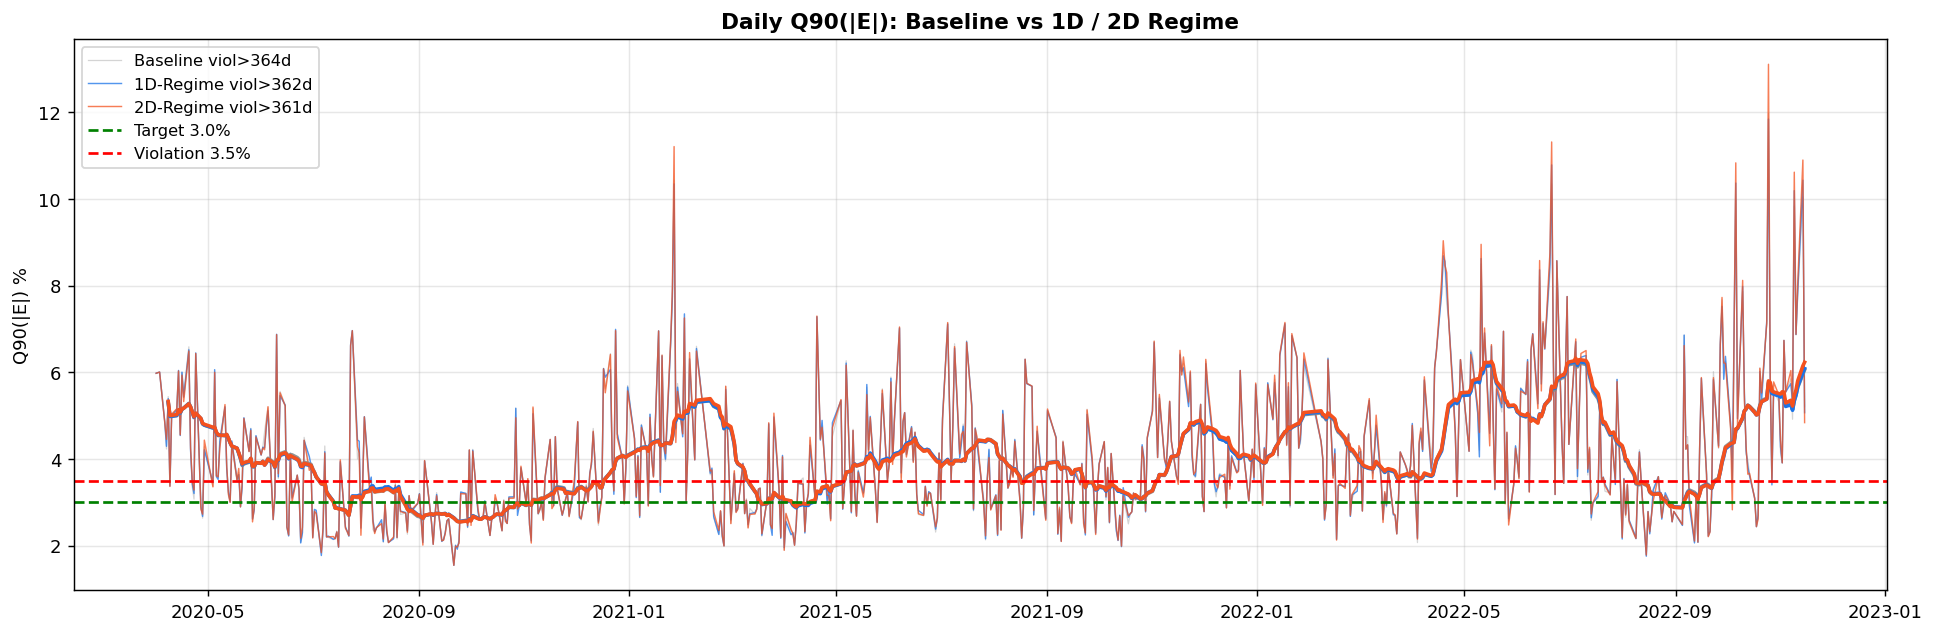
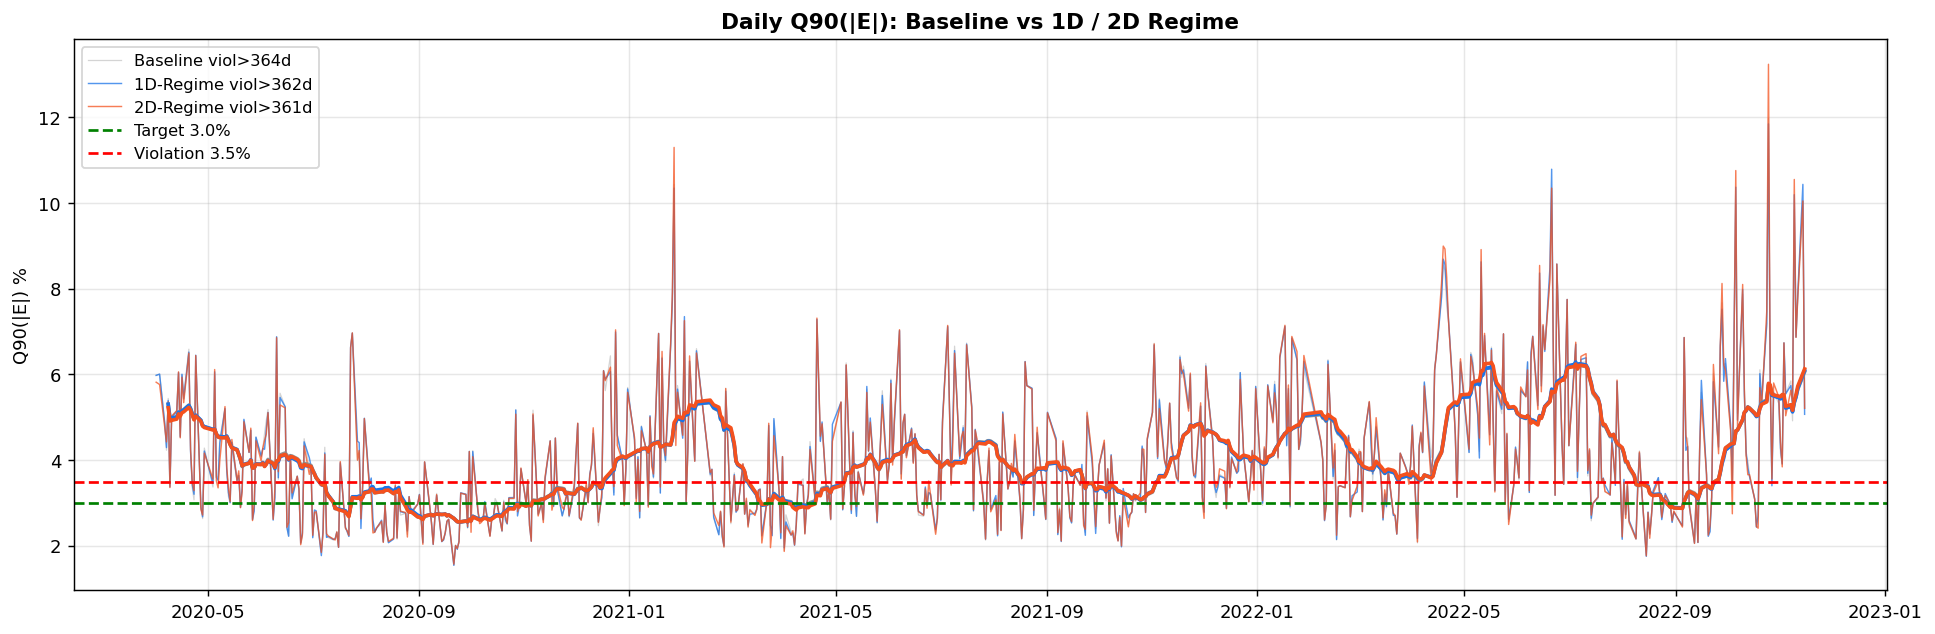
Improve VN regime calibration with tail-aware 2D grid

diff --git a/experiments/training/evaluate_regime_calibration.py b/experiments/training/evaluate_regime_calibration.py
@@ -34,7 +34,7 @@ OUTPUT   = ROOT / "data/processed/assets/data_info_vn/history/training_runs/repo
 GOLD     = ROOT / "gold/vn_transition_pressure_20260512/plots/regime_calibration_20260527"
 SEEDS    = (43, 52, 62, 71, 82)
 N_DECILES_1D = 10
-N_DECILES_2D = 5
+N_DECILES_2D = 6
 CONFORMAL_ALPHA = 0.10
 
 
@@ -115,7 +115,10 @@ def build_market_features(dates_train: pd.Series, dates_val: pd.Series,
     raw["Date"] = pd.to_datetime(raw["Date"])
     dm = raw.groupby("Date").agg(mkt_ret=("target_next_return", "mean"),
                                   mkt_std=("target_next_return", "std")).sort_index()
+    dm["mkt_q90"] = raw.groupby("Date")["target_next_return"].apply(lambda x: np.quantile(np.abs(x), .9))
     dm["rv_lag5"]         = dm["mkt_std"].shift(5).rolling(5, min_periods=2).mean()
+    dm["vol10"]           = dm["mkt_std"].shift(1).rolling(10, min_periods=3).mean()
+    dm["q905"]            = dm["mkt_q90"].shift(1).rolling(5, min_periods=3).mean()
     dm["mkt_abs_lag3"]    = dm["mkt_ret"].abs().shift(3).rolling(3, min_periods=2).mean()
     dm = dm.fillna(dm.median())
 
@@ -123,16 +126,19 @@ def build_market_features(dates_train: pd.Series, dates_val: pd.Series,
         df = pd.DataFrame({"Date": dates}).merge(dm.reset_index()[["Date", col]], on="Date", how="left")
         return df[col].fillna(dm[col].median()).to_numpy(dtype=np.float32)
 
-    rv_lag5_corr = float(
-        pd.DataFrame({"date": dates_val, "ae": np.abs(y_val - y_val * 0), "rv": lookup(dates_val, "rv_lag5")})
-        .groupby("date").agg(rv=("rv", "first"), ae=("ae", "mean"))["rv"]
-        .corr(pd.DataFrame({"date": dates_val, "ae": np.abs(y_val - y_val * 0), "rv": lookup(dates_val, "rv_lag5")})
-              .groupby("date").agg(ae=("ae", "mean"))["ae"])
-    )  # not used; kept for reference
-
     return {
-        "train": {"rv_lag5": lookup(dates_train, "rv_lag5"), "mkt_abs_lag3": lookup(dates_train, "mkt_abs_lag3")},
-        "val":   {"rv_lag5": lookup(dates_val,   "rv_lag5"), "mkt_abs_lag3": lookup(dates_val,   "mkt_abs_lag3")},
+        "train": {
+            "rv_lag5": lookup(dates_train, "rv_lag5"),
+            "mkt_abs_lag3": lookup(dates_train, "mkt_abs_lag3"),
+            "vol10": lookup(dates_train, "vol10"),
+            "q905": lookup(dates_train, "q905"),
+        },
+        "val": {
+            "rv_lag5": lookup(dates_val, "rv_lag5"),
+            "mkt_abs_lag3": lookup(dates_val, "mkt_abs_lag3"),
+            "vol10": lookup(dates_val, "vol10"),
+            "q905": lookup(dates_val, "q905"),
+        },
     }
 
 
@@ -179,11 +185,18 @@ def fit_2d_scales(y, p, rv, mk, n=N_DECILES_2D):
             mask = ((rv >= rv_lo) & (rv < rv_hi if i < n-1 else rv <= rv_hi) &
                     (mk >= mk_lo) & (mk < mk_hi if j < n-1 else mk <= mk_hi))
             ys, ps = y[mask], p[mask]
-            if mask.sum() < 30:
+            if mask.sum() < 300:
                 grid[(i,j)] = 1.0; continue
-            best_s, best_r = 1.0, rel_score(ys, ps)
-            for st in np.linspace(0.3, 1.5, 49):
-                r = rel_score(ys, ps * st)
+            def objective(pred: np.ndarray) -> float:
+                err = ys - pred
+                return (
+                    rel_score(ys, pred)
+                    - 0.8 * float(np.quantile(np.abs(err), 0.9))
+                    - 0.25 * float((np.abs(err) > 0.05).mean())
+                )
+            best_s, best_r = 1.0, objective(ps)
+            for st in np.linspace(0.4, 1.6, 49):
+                r = objective(ps * st)
                 if r > best_r:
                     best_r, best_s = r, st
             grid[(i,j)] = float(best_s)
@@ -365,7 +378,7 @@ def main():
     print("Building market features …")
     mf = build_market_features(dates_train, dates_val, y_train, y_val)
     rv_train = mf["train"]["rv_lag5"];  rv_val = mf["val"]["rv_lag5"]
-    mk_train = mf["train"]["mkt_abs_lag3"]; mk_val = mf["val"]["mkt_abs_lag3"]
+    mk_train = mf["train"]["q905"]; mk_val = mf["val"]["q905"]
 
     # rv-error correlation (informational)
     daily = pd.DataFrame({"date": dates_val, "ae": np.abs(y_val - mu_val), "rv": rv_val})
@@ -381,9 +394,10 @@ def main():
 
     # ── 2D regime ──────────────────────────────────────────────────────────
     print("Fitting 2D regime …")
-    rv_e2, mk_e2, grid_2d = fit_2d_scales(y_train, mu_train, rv_train, mk_train)
-    mu_2d_val   = apply_2d_scales(mu_val,   rv_val,   mk_val,   rv_e2, mk_e2, grid_2d)
-    mu_2d_train = apply_2d_scales(mu_train, rv_train, mk_train, rv_e2, mk_e2, grid_2d)
+    rv2_train = mf["train"]["vol10"]; rv2_val = mf["val"]["vol10"]
+    rv_e2, mk_e2, grid_2d = fit_2d_scales(y_train, mu_train, rv2_train, mk_train)
+    mu_2d_val   = apply_2d_scales(mu_val,   rv2_val,   mk_val,   rv_e2, mk_e2, grid_2d)
+    mu_2d_train = apply_2d_scales(mu_train, rv2_train, mk_train, rv_e2, mk_e2, grid_2d)
 
     # ── conformal intervals ────────────────────────────────────────────────
     print("Building conformal intervals …")

diff --git a/gold/vn_transition_pressure_20260512/plots/regime_calibration_20260527/summary.md b/gold/vn_transition_pressure_20260512/plots/regime_calibration_20260527/summary.md
@@ -10,7 +10,7 @@ rv–error correlation (val daily Q90): **0.3675**
 |:----------------|------------:|------------:|------------:|-------------------------:|------------------------:|---------------------:|---------:|
 | anchor_baseline |    0.044717 |    0.046947 |    0.062184 |                      364 |                0.552352 |             0.08856  | 0.518273 |
 | 1d_regime       |    0.046476 |    0.046831 |    0.062145 |                      362 |                0.549317 |             0.088179 | 0.518273 |
-| 2d_regime       |    0.047043 |    0.046784 |    0.062112 |                      361 |                0.5478   |             0.087997 | 0.518273 |
+| 2d_regime       |    0.048546 |    0.046649 |    0.062122 |                      361 |                0.5478   |             0.087534 | 0.518273 |
 
 ## 1D Per-Decile Scales
 